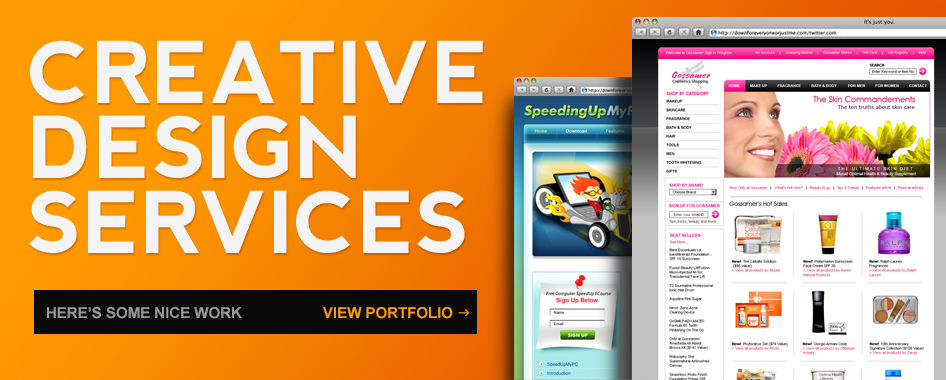
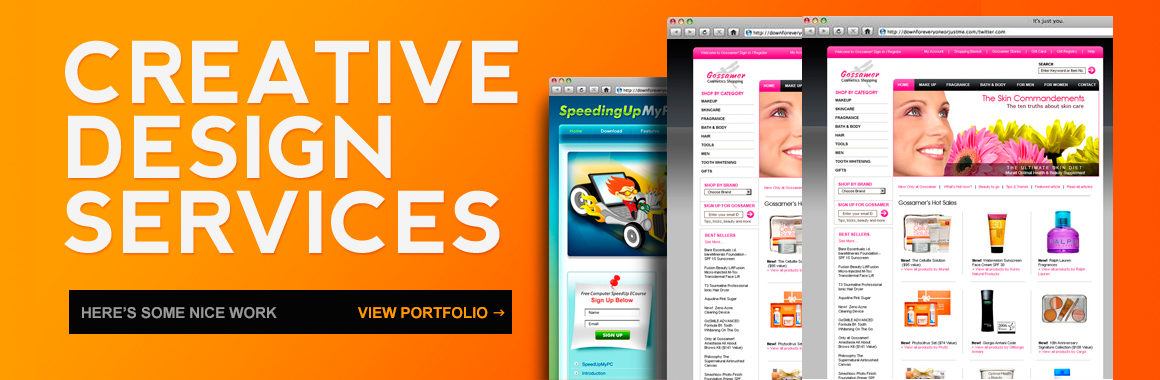
Insere meta viewport e corrige visualização 1366

diff --git a/v2/css/estilo.css b/v2/css/estilo.css
@@ -11,8 +11,8 @@
 /* Unidade Alvo / Contexto = Unidade RWD
    960 / 1366 = 0,70278 * 100 = 70.278% */
 .container{
-	margin: 0 15%;	
-	width: 70%;
+	margin: 0 7%;	
+	width: 86%;
 }
 
 .linha-divisoria{
@@ -75,7 +75,7 @@
 .slider img{
 	height: 100%;	
 	max-height: 380px;
-	max-width: 946px;
+	max-width: 1160px;
 	width: 100%;	
 }
 
@@ -115,13 +115,11 @@
 }
 
 .destaques-home a{
-	background: url(../imagens/bullet-setinha.png) no-repeat left 5px;
+	background: url(../imagens/bullet-setinha.png) no-repeat left 3px;
 	color: #fe9b00;
-	font-size: 0.9em;
+	font-size: 0.7em;
 	font-weight: bold;
-	margin-top: 7px;
 	padding-left: 15px;
-	position: absolute;
 	text-decoration: none;
 	text-transform: uppercase;
 }
@@ -166,8 +164,9 @@
 .destaques-portfolio ul li{
 	display: inline-block;
 	height: 135px;
-	margin-right: 24px;
-	width: 215px;
+	margin-right: 1.4%;
+	max-width: 215px;
+	width: 100%
 }
 
 .destaques-portfolio ul li:last-child{
@@ -290,3 +289,4 @@
 	max-width: 120px;
 	width: 100%;
 }
+

diff --git a/v2/index.html b/v2/index.html
@@ -2,6 +2,7 @@
 <html lang="pt">
 <head>
 	<meta charset="UTF-8">
+	<meta name="viewport" content="width=device-width,initial-scale=1">
 	<title>Creative Studio</title>
 	<link rel="stylesheet" type="text/css" href="css/estilo.css">
 </head>
@@ -84,6 +85,7 @@
 			<li><img src="imagens/portifolio-job-2.jpg" height="135" width="215"></li>
 			<li><img src="imagens/portifolio-job-3.jpg" height="135" width="215"></li>
 			<li><img src="imagens/portifolio-job-4.jpg" height="135" width="215"></li>
+			<li><img src="imagens/portifolio-job-1.jpg" height="135" width="215"></li>
 		</ul>
 	</section>
 
